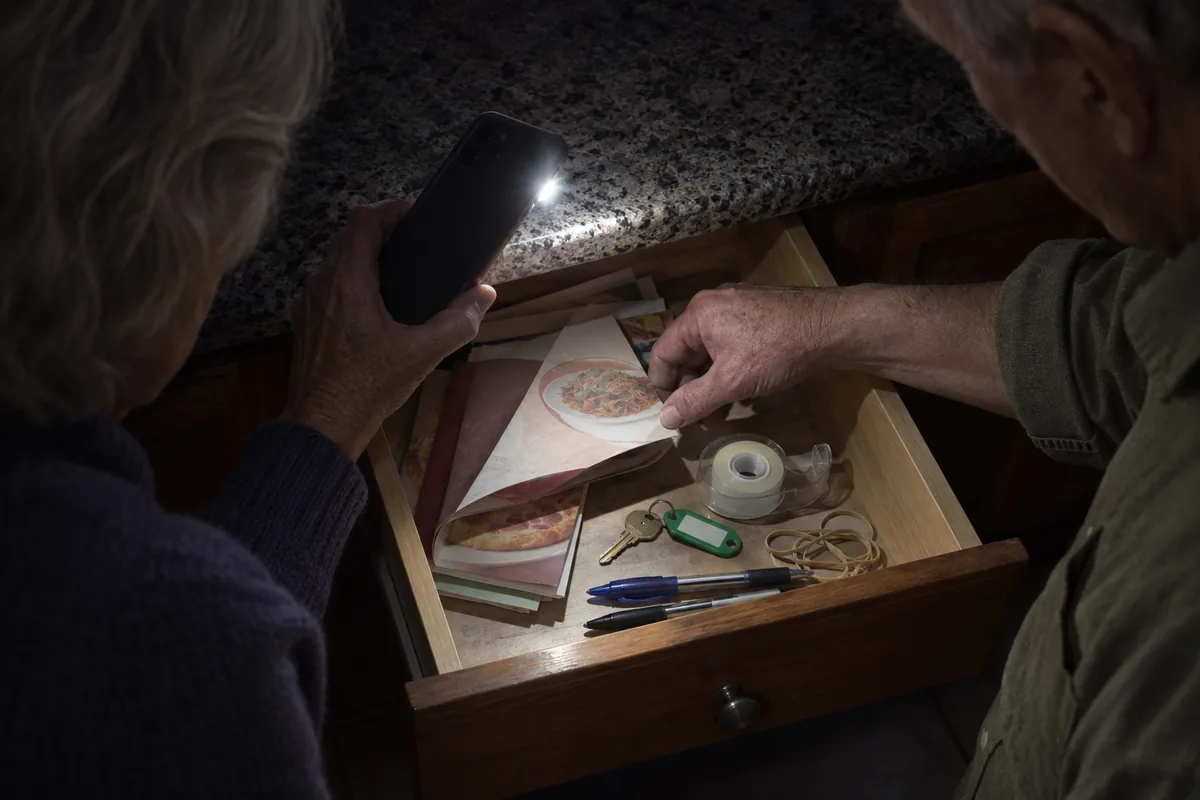
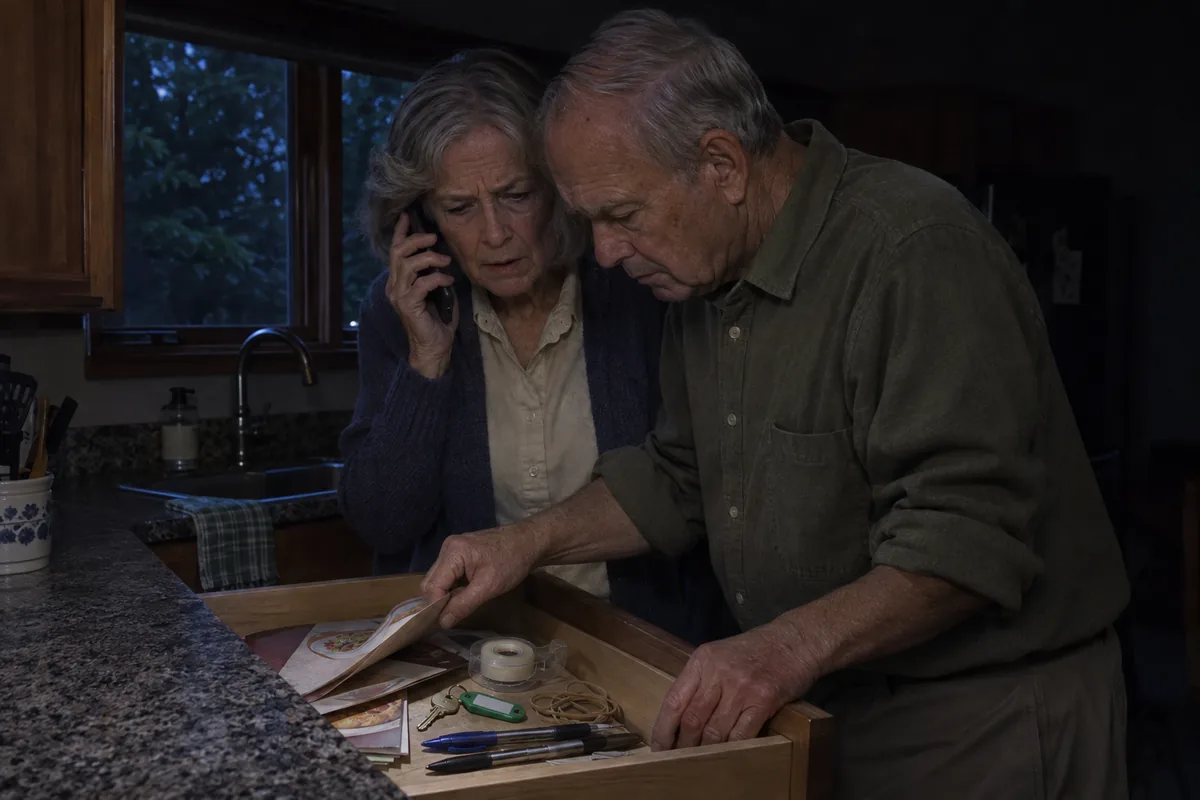
Add files via upload

diff --git a/kit/index.html b/kit/index.html
@@ -44,10 +44,10 @@ ul{list-style:none;padding:0;margin:1em 0}li{position:relative;padding:.65em 0 .
 <p>It’s a little after nine. At your place, the lights are on. At theirs, the whole block is dark.</p>
 <p>“Check the kitchen drawer,” you tell him.</p>
 <p>“I did.”</p>
-<p>Your mom turns on her phone’s flashlight and holds it over the drawer so your dad can see.</p>
+<p>Your mom stays on the phone while your dad searches through the kitchen drawer.</p>
 <p>From your end of the call, you can picture exactly what’s in there. Takeout menus. A roll of tape. The spare key with the green tag. You grew up in that house. You could draw that kitchen from memory.</p>
 <p class="turn"><strong>But you can’t tell them where the flashlight is, either.</strong></p>
-<figure class="photo"><img src="images/02-cajon.webp" alt="An open kitchen drawer lit by a phone, with menus, tape and a spare key." loading="lazy" decoding="async" width="1200" height="800"></figure>
+<figure class="photo"><img src="images/02-cajon.webp" alt="Dad searches through the kitchen drawer while Mom stands beside him talking on the phone in the dim kitchen." loading="lazy" decoding="async" width="1200" height="800"></figure>
 <p>Your first instinct is to grab your keys. Maybe you’re twenty minutes away. Maybe you’re three states away. Either way, for those first few minutes, it’s just the two of them in that dark kitchen.</p>
 <h2>Ask them while the lights are still on</h2>
 <p>Next time you’re over, ask your parents a simple question.</p>
